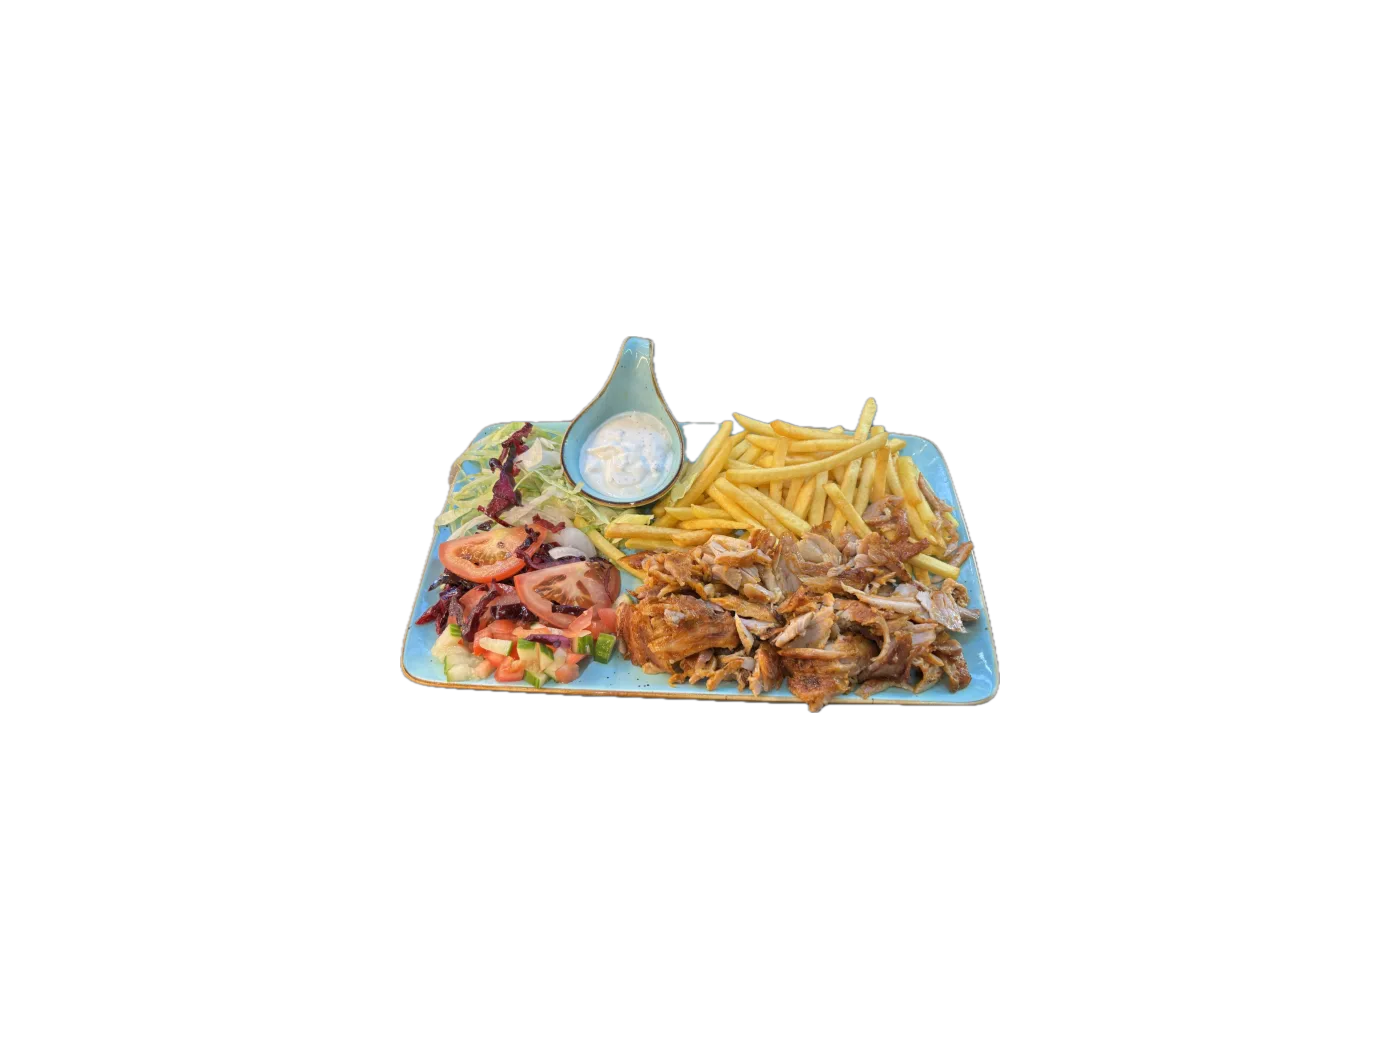
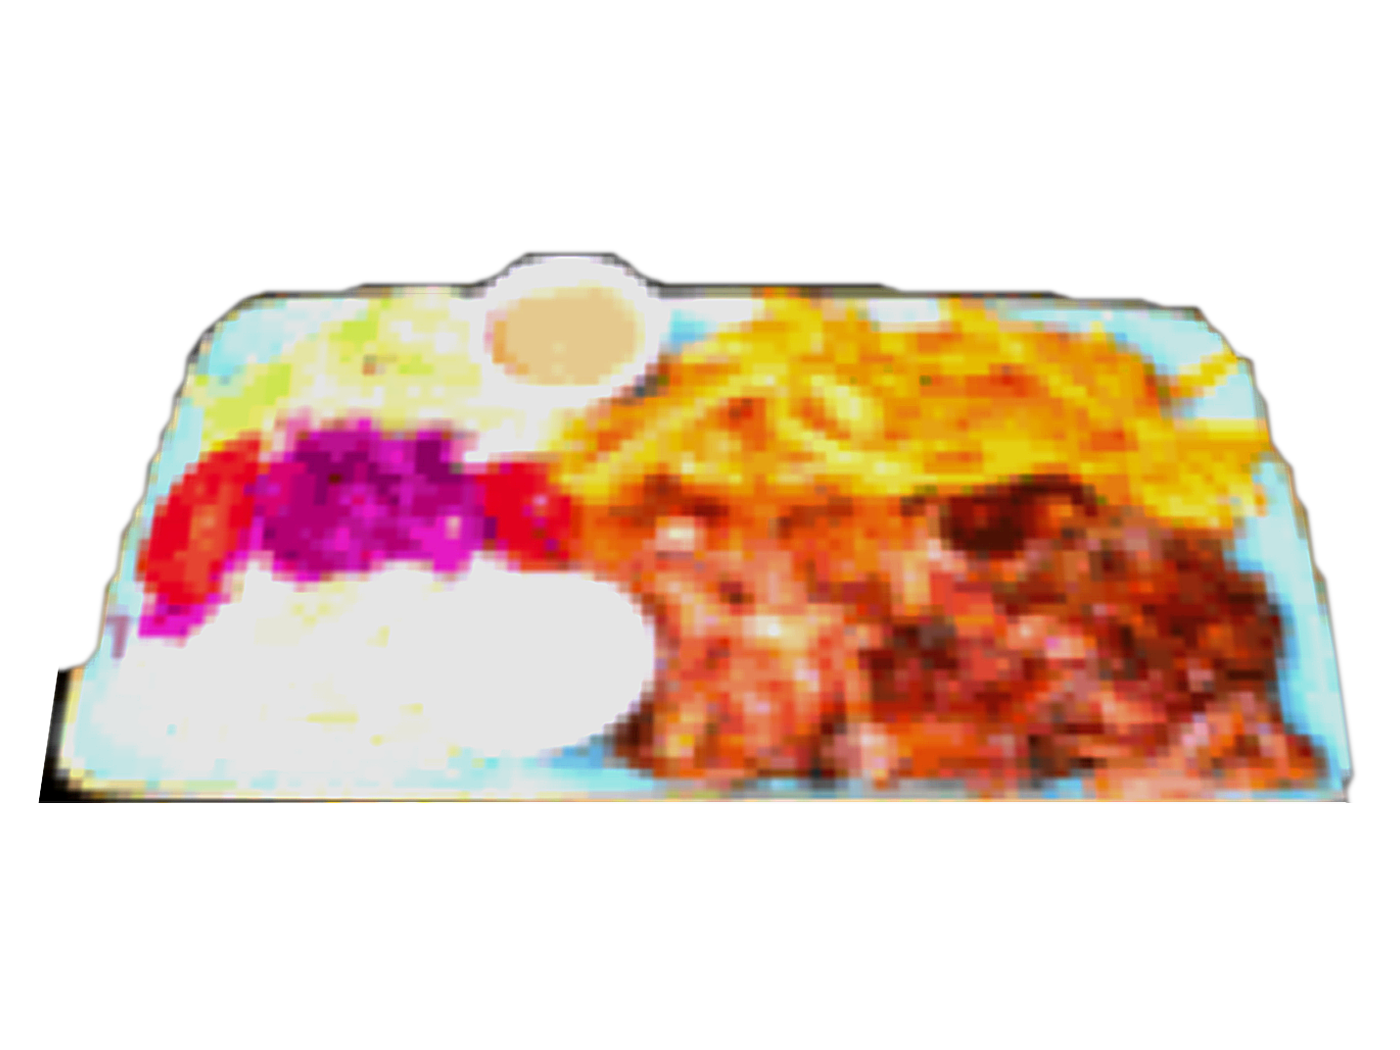
board2: restore Fry_Fish, reprocess Doenerteller, imgsz adjustments
- Fry_Fish.png: restored to previous version (user request)
- Doenerteller_Pommes.png: reprocessed from orig (fills 94% width)
- Dönerteller imgsz: 1.10 → 1.30 (match Grill Fish visual size)
- Fry Fish imgsz: stays 1.10

diff --git a/board2.html b/board2.html
@@ -226,7 +226,7 @@ body{font-family:"Raleway",system-ui,sans-serif;color:#FFF5E0;cursor:none;
 </div>
 <div class="vignette"></div>
 <script>
-const v="?v="+"20261017l";
+const v="?v="+"20261017m";
 const SLIDES=[
   {
     title:"Döner &amp; Mehr",
@@ -236,7 +236,7 @@ const SLIDES=[
         {n:"Döner",nr:"05",p:"7",d:"Fladenbrot · Salat · Soße · mit Käse +1 €",img:"Doener_v1.png",e:"🥙",imgsz:1.10},
         {n:"Lahmacun",nr:"07",p:"9",d:"Dönerfleisch · frischer Salat · Soße",img:"Lahmacun_v1.png",e:"🌯",imgsz:1.10},
         {n:"Döner Box",nr:"06",p:"8,50",d:"Pommes oder Reis · Salat · Soße",img:"Seitan_Sandwich.png",e:"🥡",imgsz:1.10},
-        {n:"Dönerteller",nr:"09",p:"12",d:"Pommes oder Reis · Salat · Zwiebeln · Soße",img:"Doenerteller_Pommes.png",e:"🍽",imgsz:1.10},
+        {n:"Dönerteller",nr:"09",p:"12",d:"Pommes oder Reis · Salat · Zwiebeln · Soße",img:"Doenerteller_Pommes.png",e:"🍽",imgsz:1.30},
       ]},
       {t:"Vegetarisch &amp; Vegan",items:[
         {n:"Falafel-Sandwich",nr:"11",p:"7",d:"Falafel · Salat · Soße · Fladenbrot",img:"Falafel_Sandwich.png",e:"🥙",imgsz:1.10},
